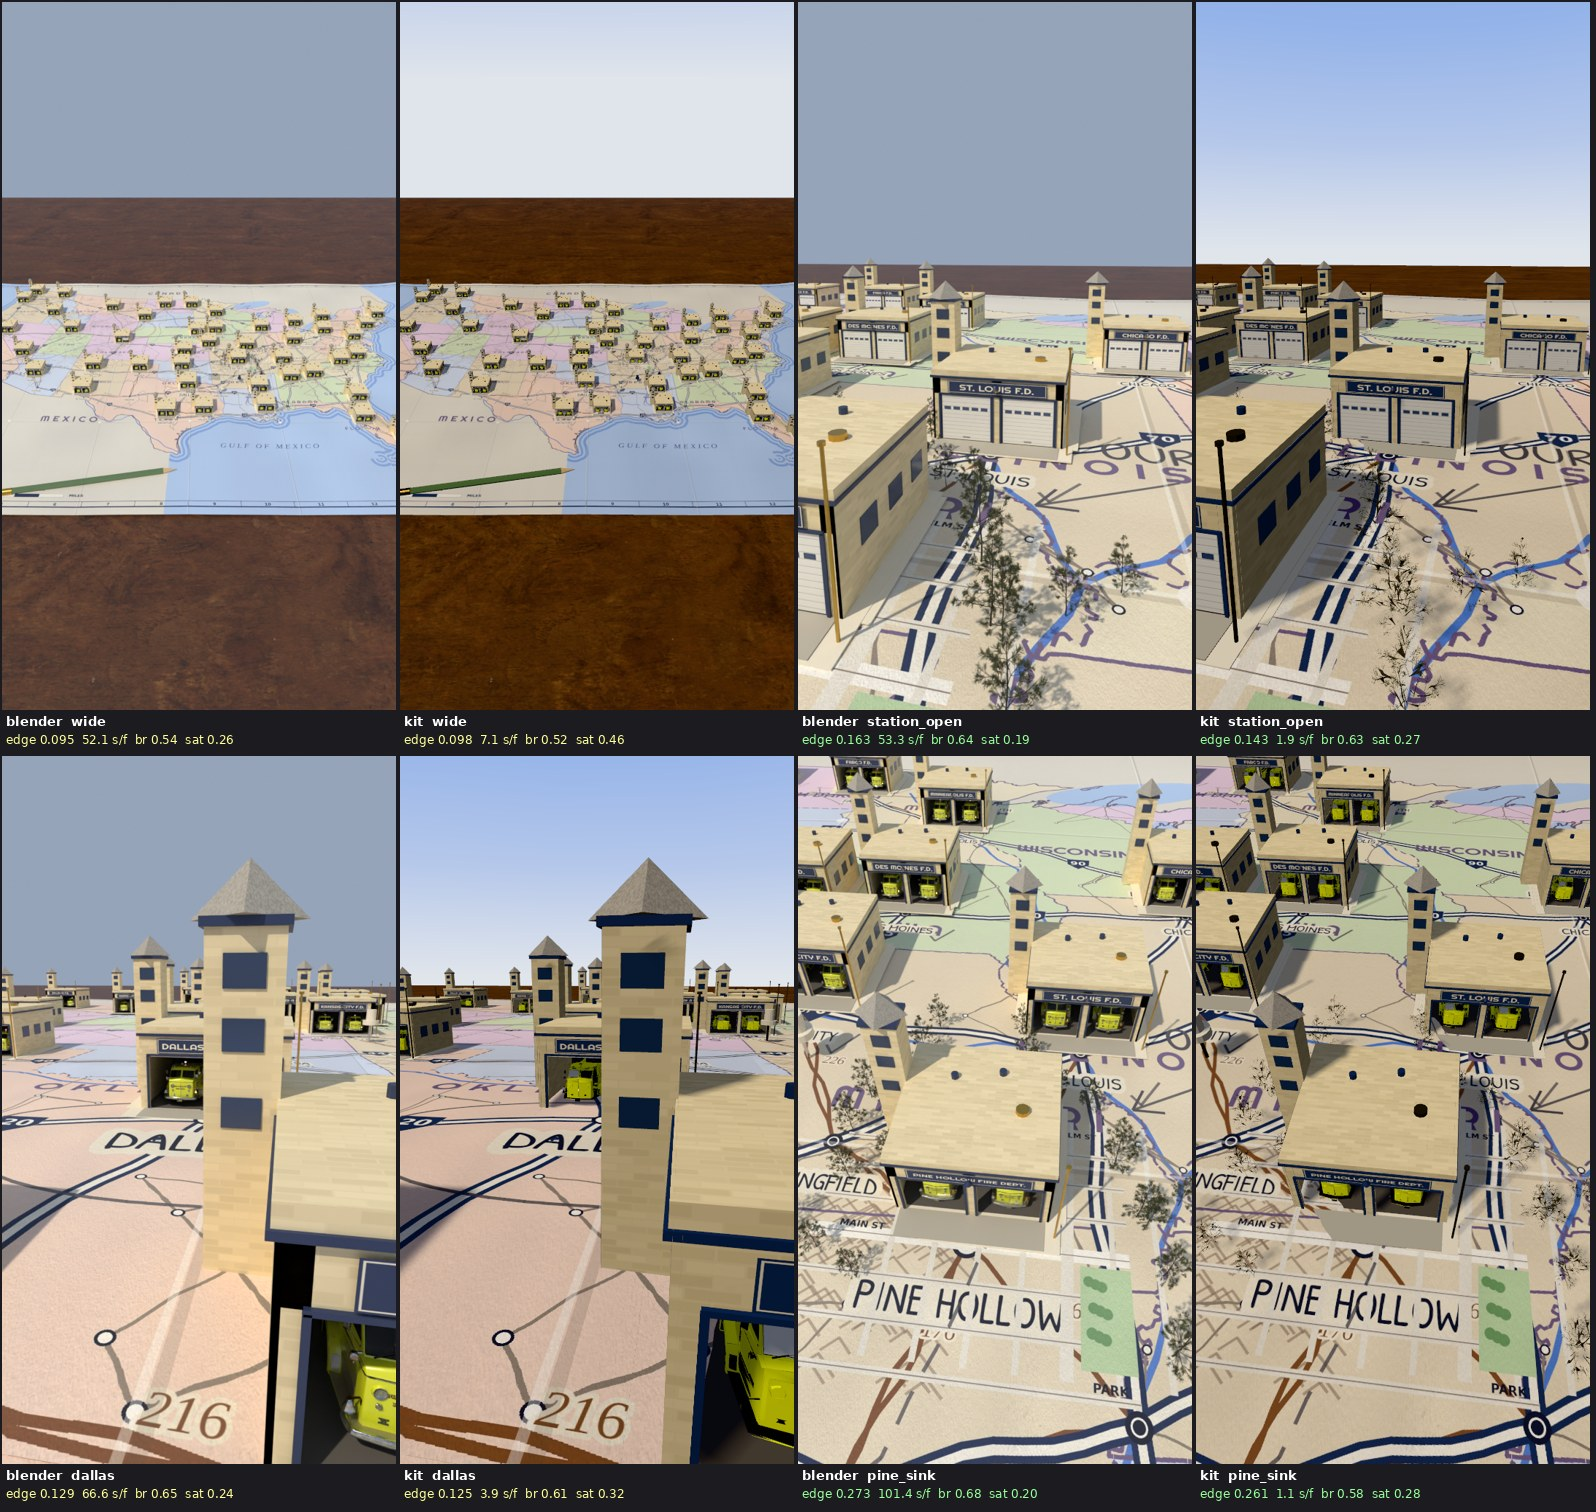
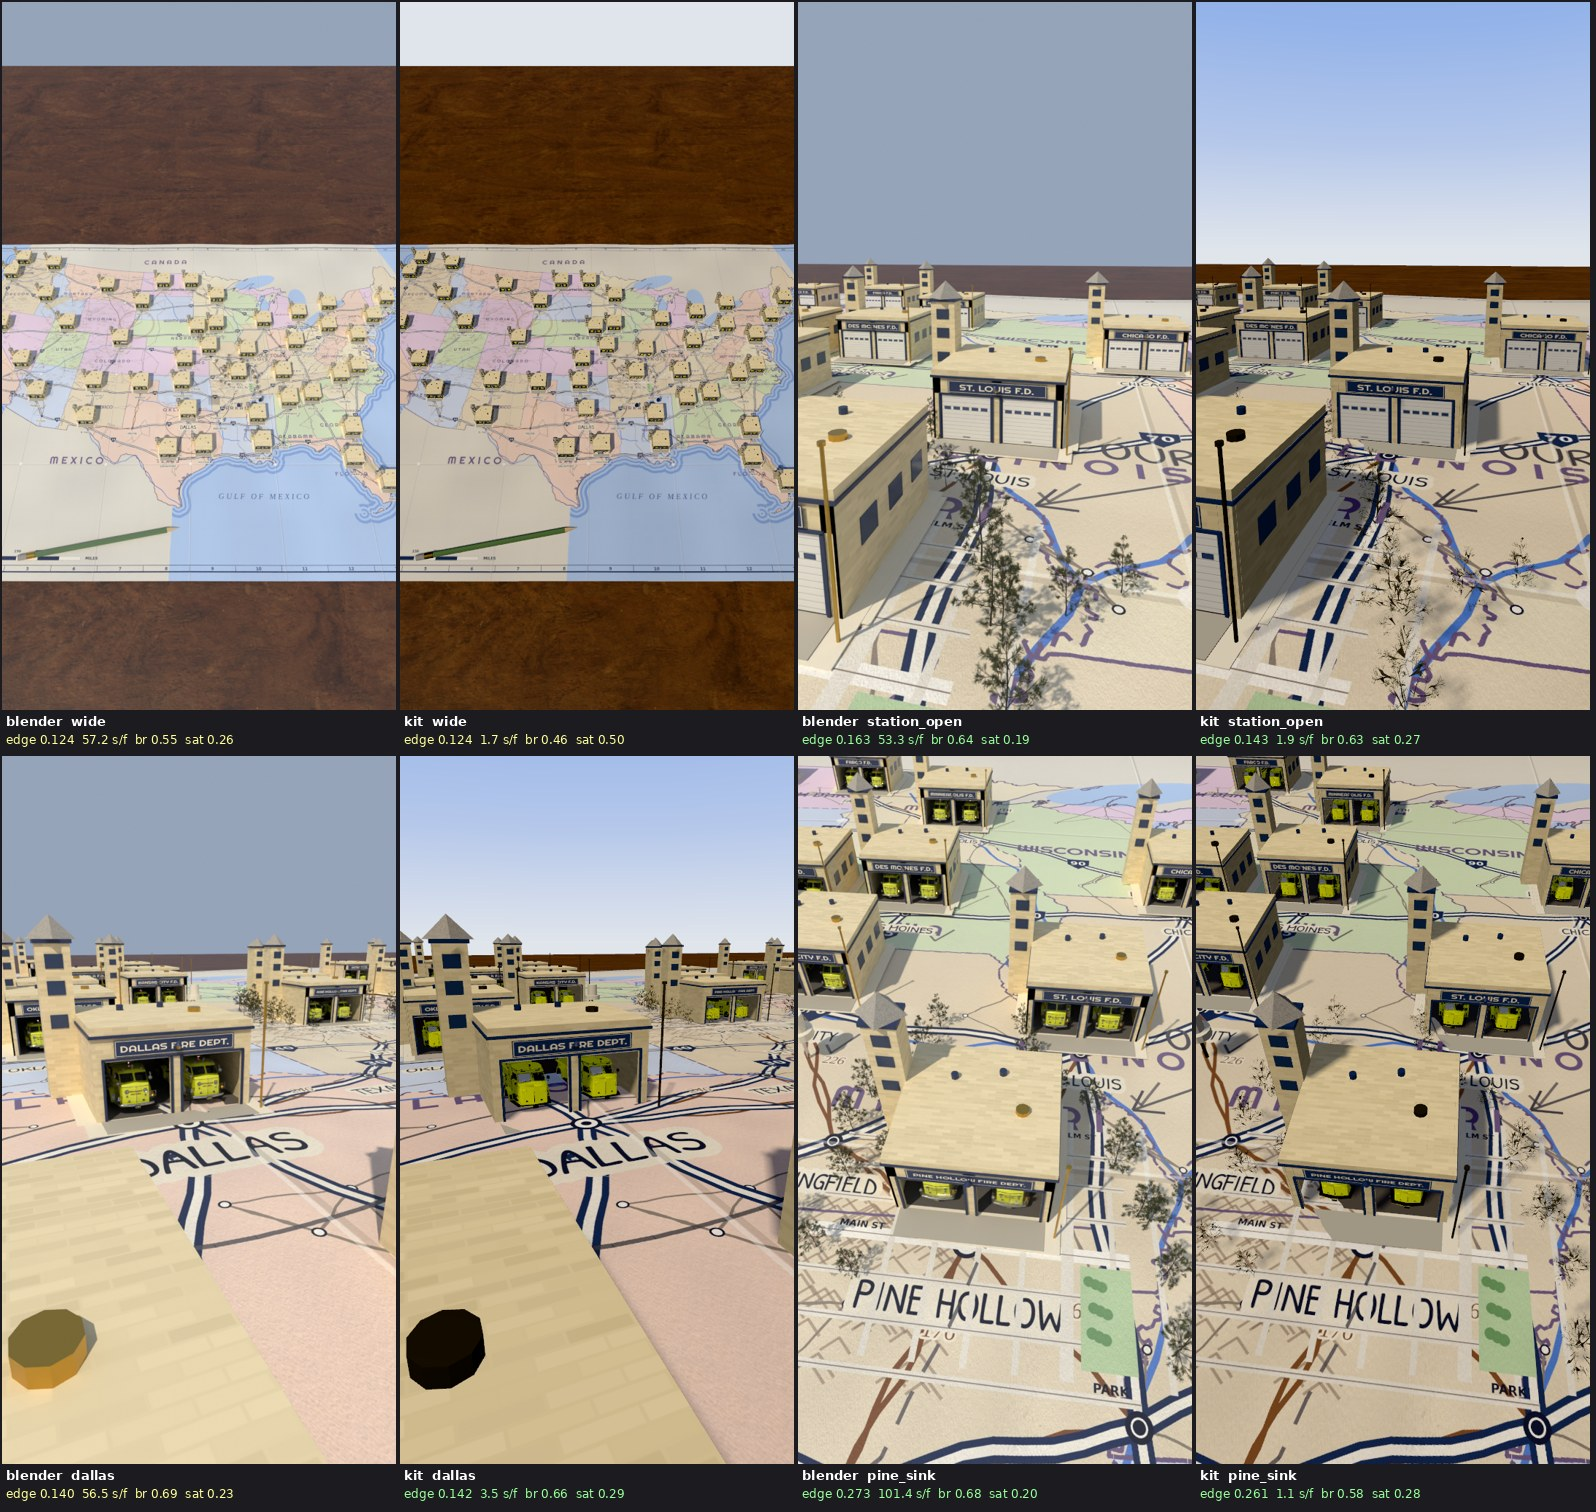
Yellow fire trucks: map of America set (detail gates pass), four lessons
Claude-Session: https://claude.ai/code/session_01DrjR3Ltb34YxYG9MboPX6s

Changed region(s): [[0.0, 0.5595, 0.5219, 0.9947], [0.0, 0.0311, 0.5219, 0.4041]]

diff --git a/episodes/yellow-fire-trucks/sets/map/STATE.md b/episodes/yellow-fire-trucks/sets/map/STATE.md
@@ -2,7 +2,7 @@
 ## NOT done / still wrong (seen in the sheet)
 - No Rick frame in the repo: no side-by-side, no close-up 90 % check; numbers only against his measured bands (LOOK_BIBLE).
 - Saturation low: Blender 0.19-0.26 (< 0.30 day floor), kit 0.27-0.46. The pastel print + bleached sun wash out; the paper reads near white in Blender closes.
-- Kit wide edge below the 0.14 target in the first pass (0.098: half the frame was table and sky); re-aimed, see numbers below.
+- Wide still below 0.14 (.124 both): the portrait frame shows the table above and below the map. Dallas close: a near station roof blocks the lower left.
 - Not built: cloud shadows drifting (row 22), glint wave through the lime noses (row 25), air life (motes, shimmer), paper corner draught. Door wave and paint wave ARE built.
 - Kit: the tiny truck has 4 flat materials (no PBR paint patch, no letters); near closes (Dallas, Pine Hollow) show it; use assets.js buildTruck(light) there if it shows.
 - Station models are coded card boxes (~600 tris): no fold edges, roofs plain; the Pine Hollow model is the same model as all others (sign differs only).
@@ -19,7 +19,14 @@
 - Anchors (Z up, plan m): map_centre, pine_hollow_station, dallas_label, dallas_station, door_row [x,y,z,city] west->east (94), highway_path (Pine Hollow -> Little Rock ->
   Texarkana -> DALLAS, 31 points on the paper), title_block, compass, cities{}. I-35 and I-45 also reach the DALLAS dot from the south (the proof glide uses I-35).
 ## Numbers (proof/numbers.json; 540x960; Blender Cycles CPU 16 spp + OIDN, Standard; kit 2nd-frame seconds)
-NUMBERS_TABLE
+| cam | Blender edge / s | kit edge / s | note |
+|---|---|---|---|
+| wide | .124 / 57 | .124 / 1.7 | below .14: portrait frame of a 1.6:1 map shows table above and below |
+| station_open | .163 / 53 | .143 / 1.9 | door wave mid-way, red->lime |
+| dallas | .140 / 57 | .142 / 3.5 | a near station roof (bell) fills the lower left: re-aim in the stretch |
+| pine_sink | .273 / 101 | .261 / 1.1 | |
+GATE median: Blender .151 PASS, kit .143 PASS (target .14; none under .08). Brightness .46-.69 (above the .42-.50 band in closes), saturation above.
+Kit: 615,888 tris (241 k set + 94 x 4 k trucks), 600 meshes, load 1.5-2.4 s. Kit brass (bell, flag ball) renders black: no env map on GLB metals.
 ## LECONS (LECONS format; the lead copies them into LECONS_TECHNIQUES.md)
 - 2026-11-21 truck_api.set_paint(masking=False) on truck_light.blend: AssertionError mask_paper missing. Cause: the light truck has no mask materials (bl_light removed them
   with no fake user). Fix: masking=None (leave the masks as saved). Guard: bl_map.py calls set_paint(masking=None); build stops on Traceback. Proof: logs/map.log MAP_DONE. FERMÉ

diff --git a/episodes/yellow-fire-trucks/s3/CAMERA_NOTE.md b/episodes/yellow-fire-trucks/s3/CAMERA_NOTE.md
@@ -3,7 +3,7 @@ Built from the BUILT set (sets/town/out/town_meta.json + town_STORY.md): Main St
 bar on Elm northbound at y -6.2..-6.6 (x 22..26.5, the van's lane), the sodium lamp on the SE corner (25.3, -6.95, 7.05). Asphalt z 0. Camera v2, lens in mm on a 36 mm tall frame.
 Staging (sets/s3_crossing.js S3, make_film.py): the red pumper races WEST along Main in the south lane (y -4.0) out of the long dark stretch with no lamp, brakes hard
 and stops nose x 25.1; the milk van (nose north, x 24.3) creeps to the bar (f475-505), rolls on "kept" (f554-569) and its front RIGHT corner meets the truck's
-bumper on "hit" (f569) at (25.05, -4.9). The Milkman stands at the wheel inside the open door (west side); the Sceptic drives (driver side = south).
+bumper on "hit" (f569) at (25.05, -4.9). The Milkman stands at the wheel in the open door (west side, card at van x -0.8); the Sceptic drives (driver side = south).
 After the bump the Milkman climbs out and stands in front of the truck's nose, north of his van (23.8, -3.3).
 
 ## One flowing idea: "the corner he pulls out from"
@@ -14,7 +14,7 @@ beacons to the man, and ends low in front of the truck nose, tilting up the thin
 | # | at (f) | pos -> aim (plan m) | lens | move id | rows | why, from this scene |
 |---|---|---|---|---|---|---|
 | A | 474 | (20.5,-5.1,1.3) -> (58,-4,1.7) | 50 | M09 push-in match (piece 11), then lens widens | 14 | the toy truck of S2 becomes the real truck: down the dark street on a long lens, dull and heavy |
-| B | 508, rest to ~547 | (20.4,-5.0,1.25) -> (30,-8.6,1.2) | 22 | M00 living rest | 14-15 | Milkman at the wheel in the open door, the white bar, truck far down Main behind him: look left on "dusk", right on "red" |
+| B | 508, rest to ~547 | (20.4,-5.0,1.25) -> (30,-9.0,1.15) | 19 | M00 living rest | 14-15 | Milkman at the wheel in the open door, the white bar, truck far down Main behind him: look left on "dusk", right on "red" |
 | C | 569 (via) | (22.4,-2.9,0.6) -> (25.1,-4.9,0.9) | 22 | M03 hit on object, low | 16 | the camera drops low onto the two bumpers for the bump; impact frame, hubcap leaves toward the lens |
 | D | 613, rest | (23.3,-2.4,2.9) -> (26.3,-4.0,2.5) | 26 | M13 rise up the object | 17 | the rise up the stopped truck lands on the roof line: four sirens with sound rings, the bell below |
 | E | 643 (via) | (21.2,-3.2,1.05) -> (25.0,-5.6,1.75) | 20 | M02 sink | 18 | on the way down: beacons at the top, the Milkman small behind his windscreen |
